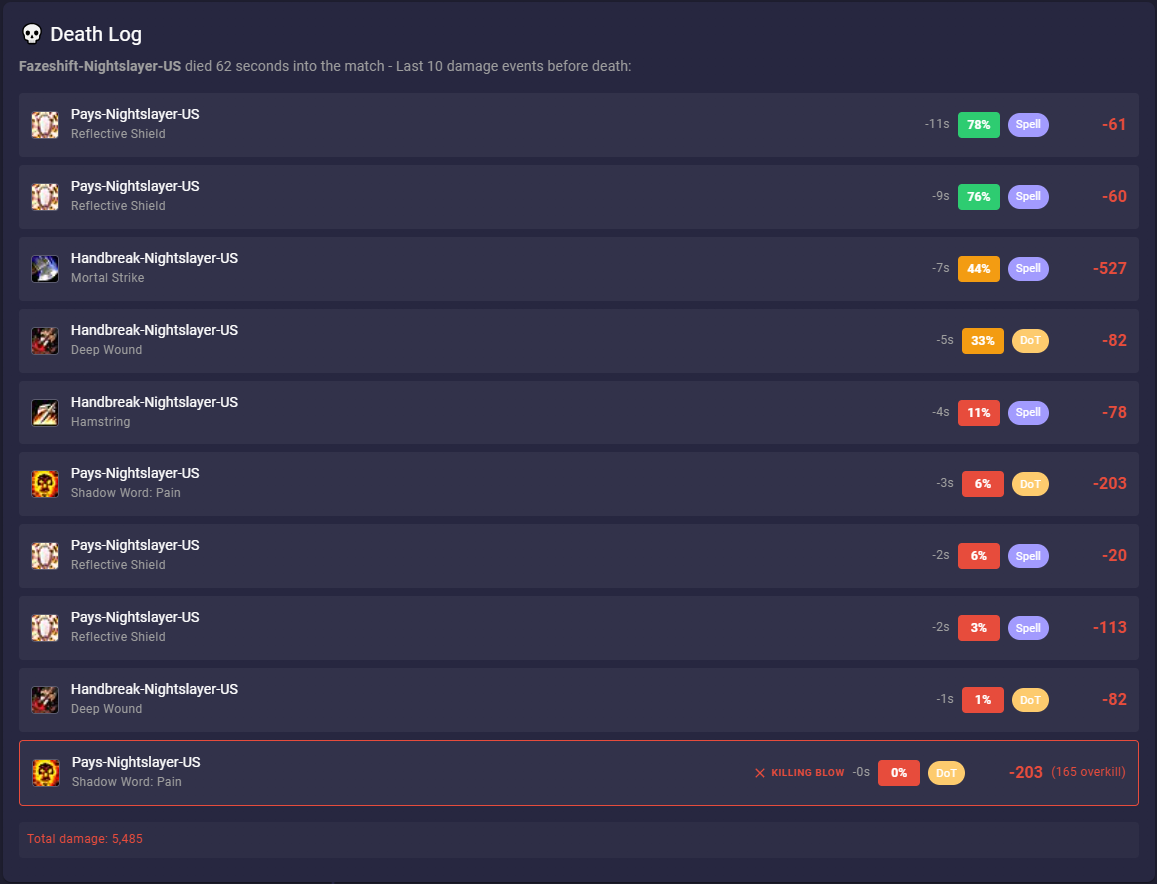
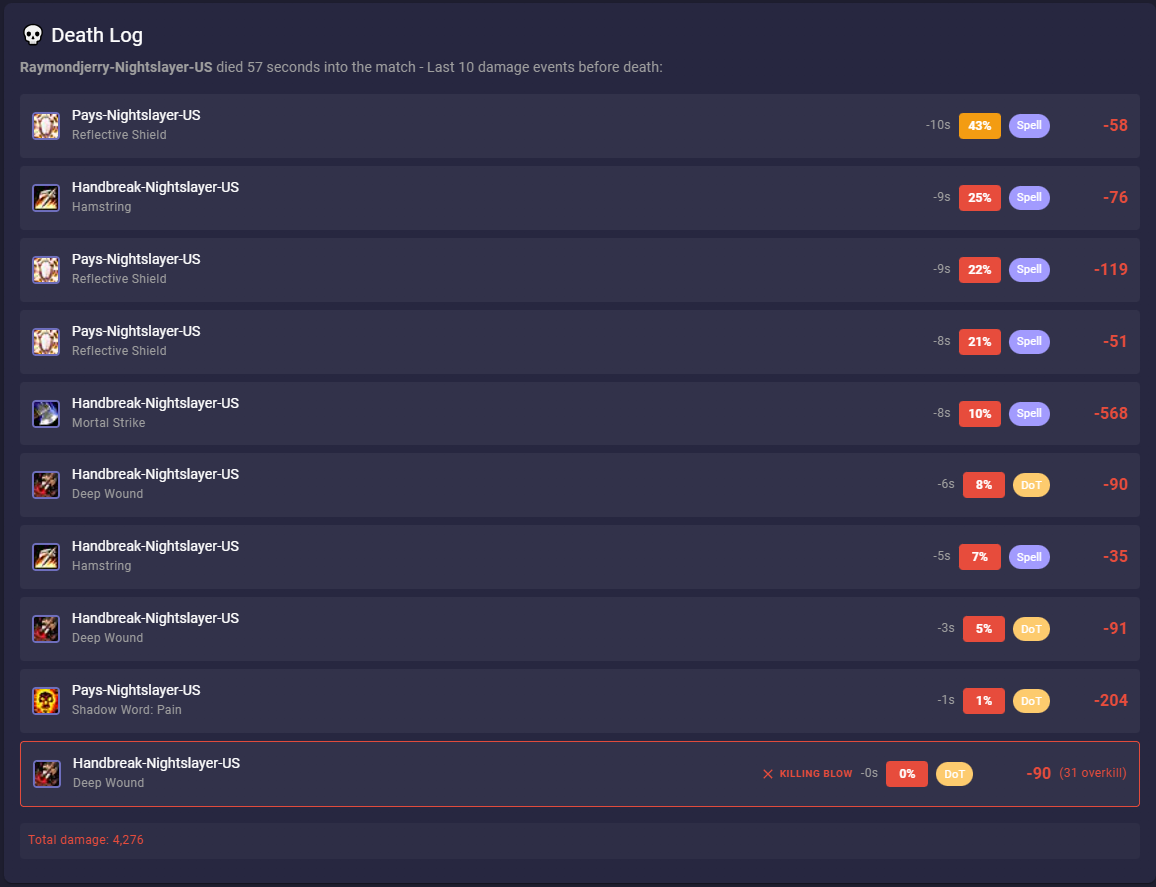
lazygit

diff --git a/src/components/Pricing.tsx b/src/components/Pricing.tsx
@@ -112,10 +112,6 @@ export default function Pricing() {
     }
   };
 
-  const handleLogin = () => {
-    loginWithDiscord();
-  };
-
   if (checkingAuth) {
     return <div>Loading...</div>;
   }
